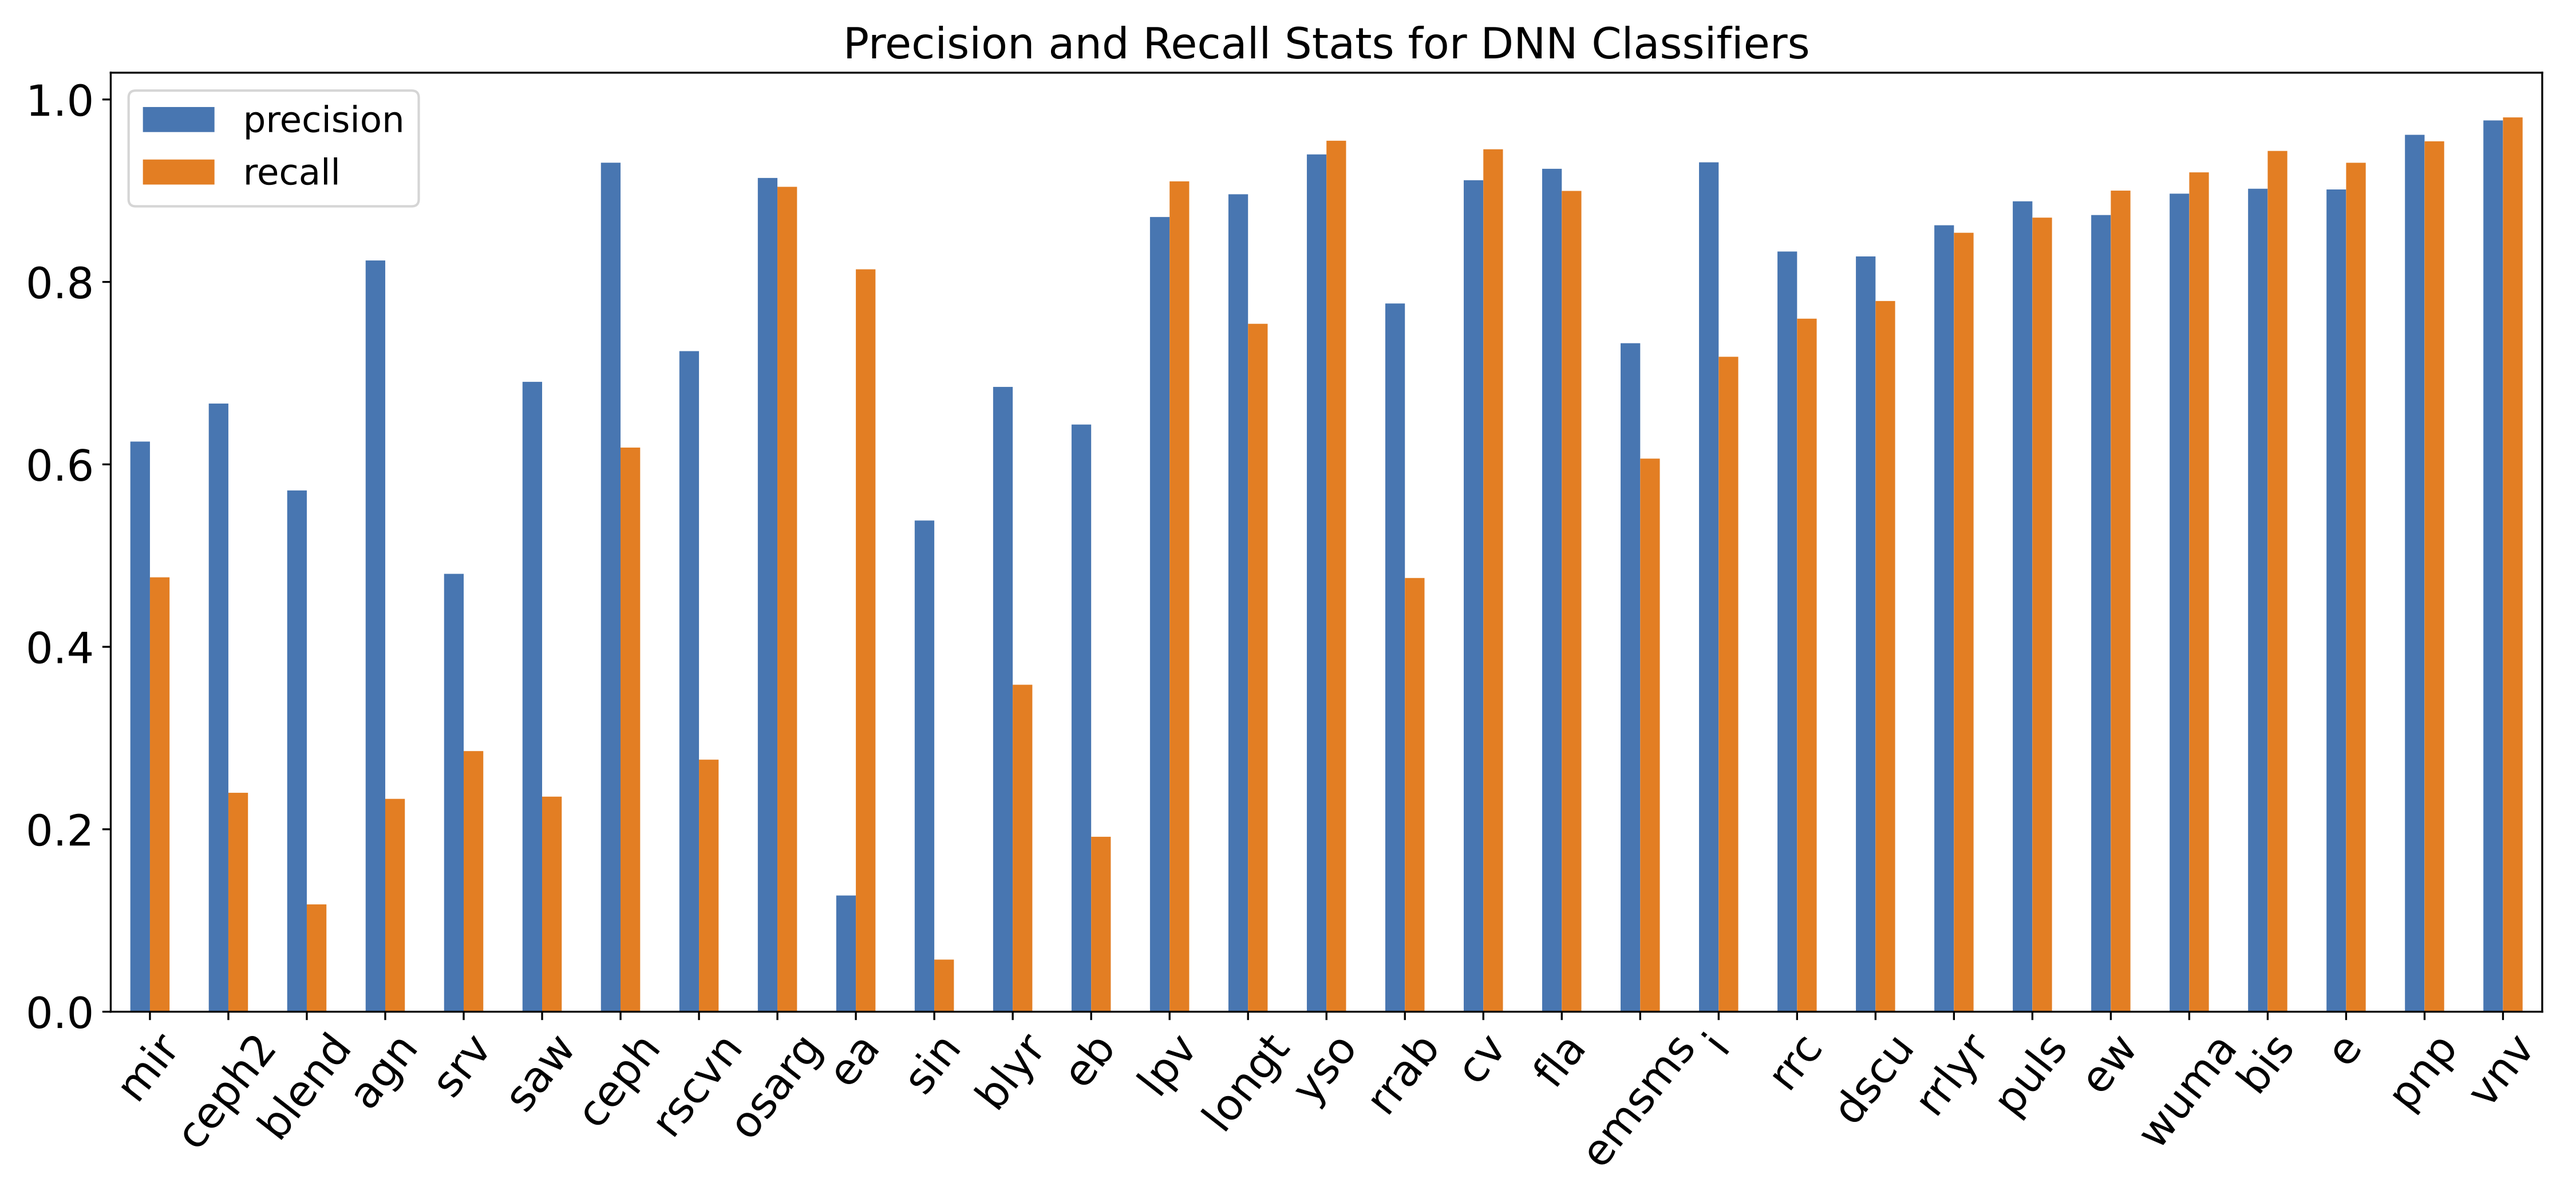
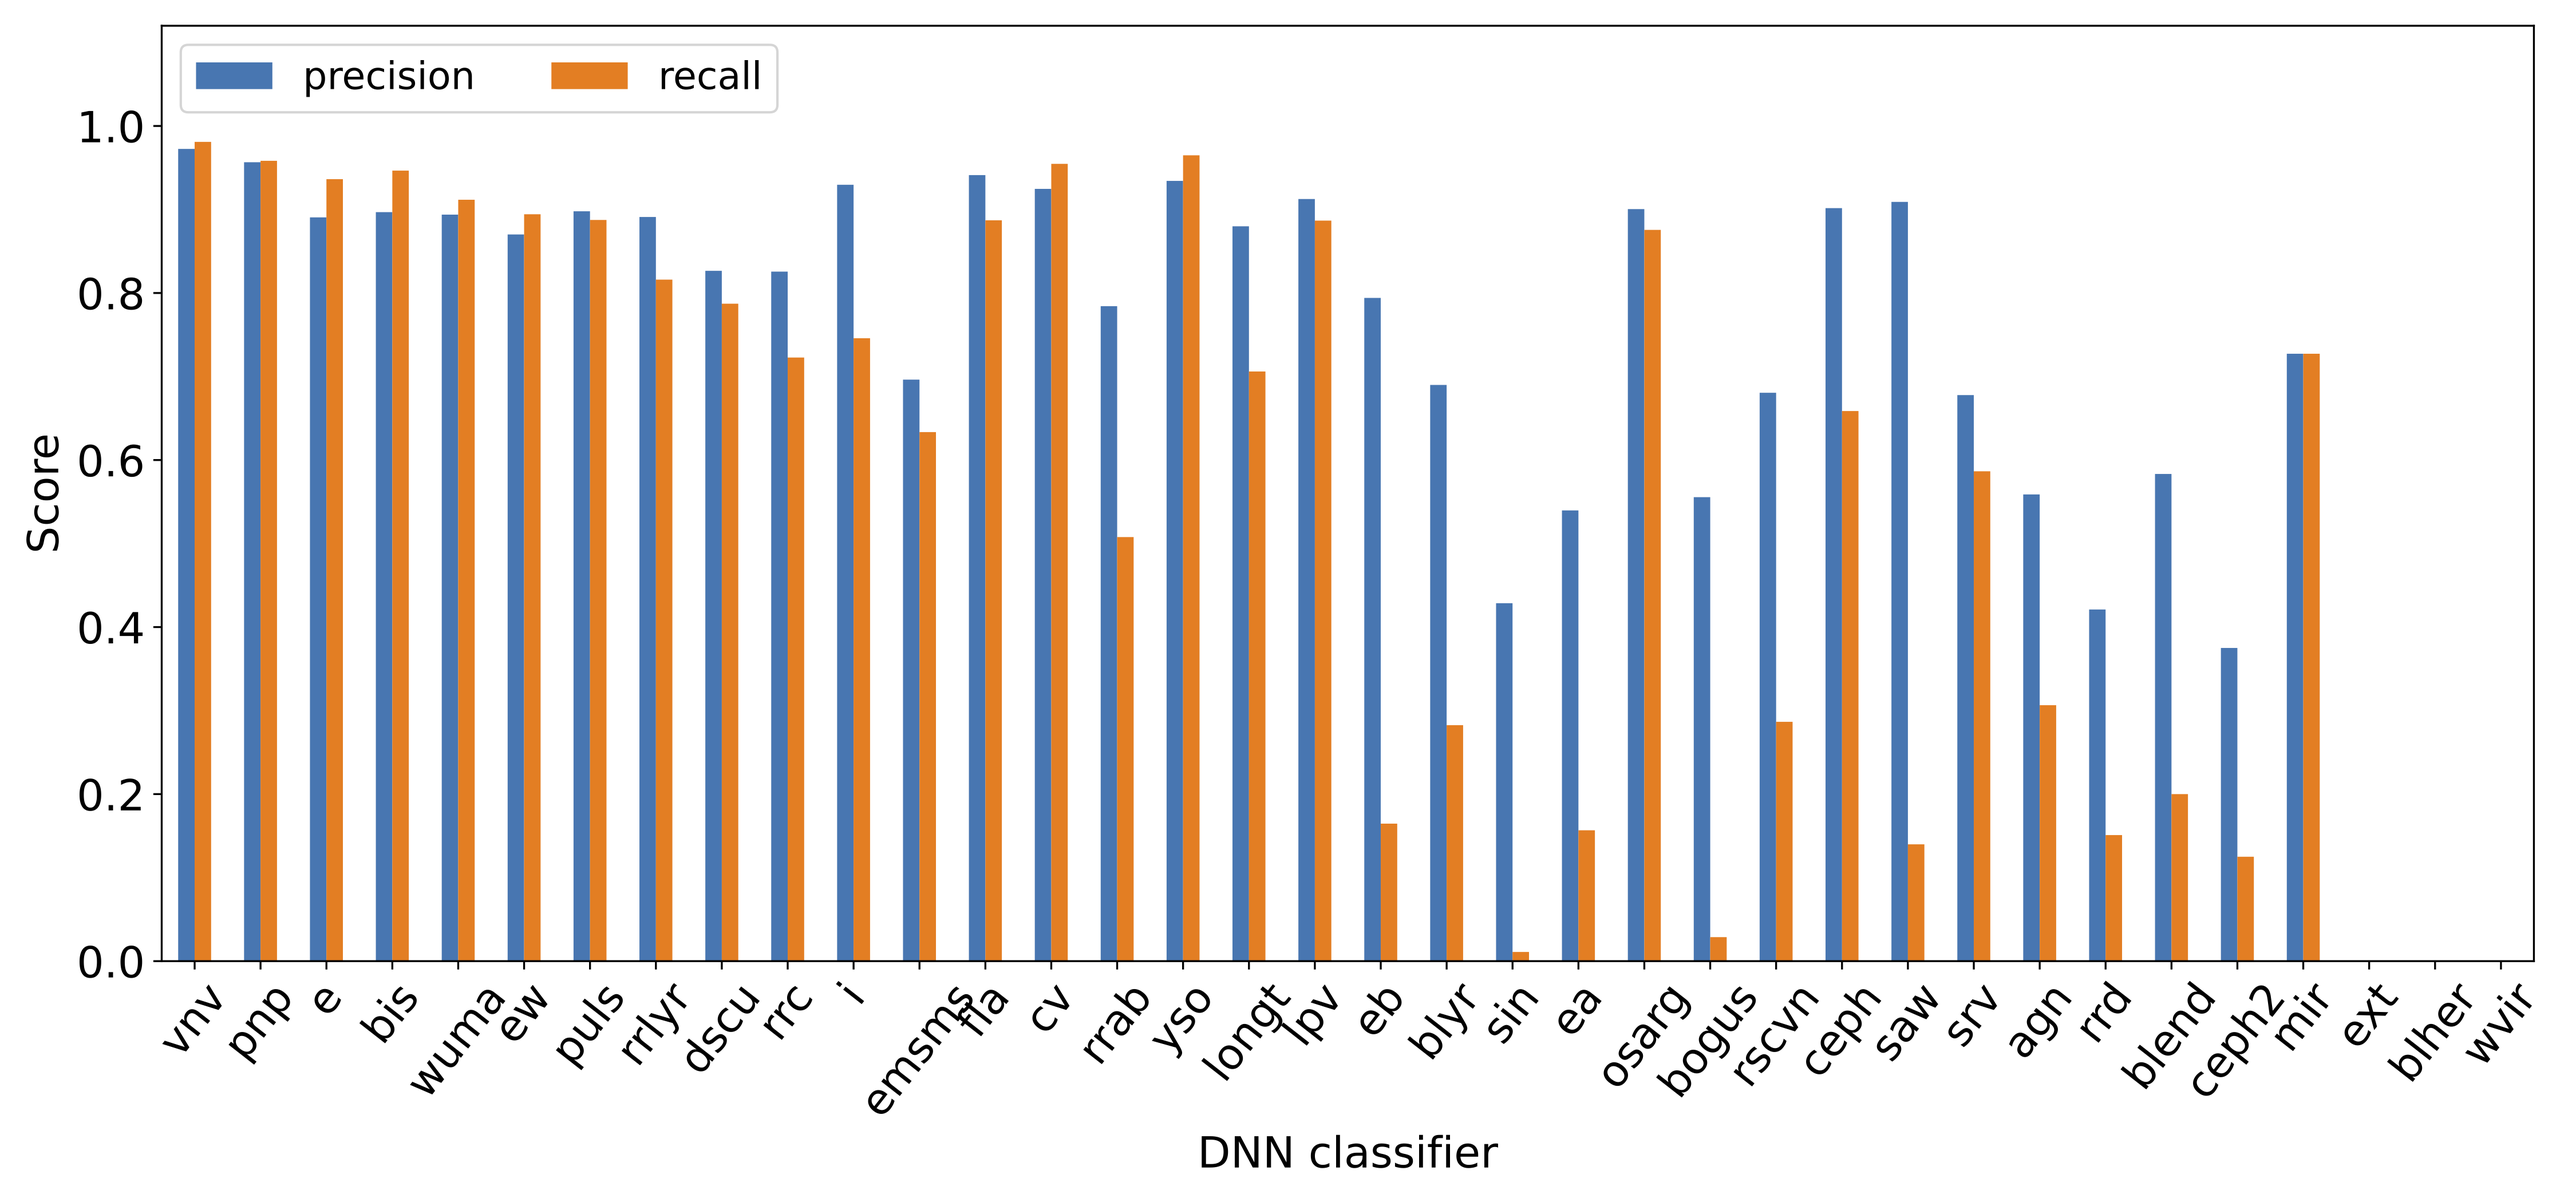
Update scanner docs with latest results (#561)

diff --git a/doc/scanner.md b/doc/scanner.md
@@ -23,12 +23,14 @@ The first taxonomy is ontological and contains specific kinds of astrophysical s
 | W UMa | `wuma` | W UMa binary system |
 | Beta Lyr | `blyr` | Beta Lyr binary |
 | RS CVn | `rscvn` | RS CVn binary |
+| BL Her | `blher` | BL Her-type Cepheid variable star |
 | RRab | `rrab` | RR Lyr ab star |
 | RRc | `rrc` | RR Lyr c star |
 | RRd | `rrd` | RR Lyr d star |
 | Mira | `mir` | Mira variable star |
 | SRV | `srv` | Semi-regular variable star |
 | OSARG | `osarg` | OGLE small-amplitude red giant star |
+| W Vir | `wvir` | W Vir-type Cepheid variable star |
 
 *Refer to the field guide for more information about these classes.*
 
@@ -48,7 +50,9 @@ In consideration of the importance of having some information about a source (ev
 | EA | `ea` | EA eclipsing phenomenology |
 | EB | `eb` | EB eclipsing phenomenology |
 | EW | `ew` | EW eclipsing phenomenology |
+| bogus | `bogus` | bogus variability |
 | blend | `blend` | blended sources phenomenology |
+| extended | `ext` | extended source |
 
 *Refer to the field guide for more information about these classes.*
 
